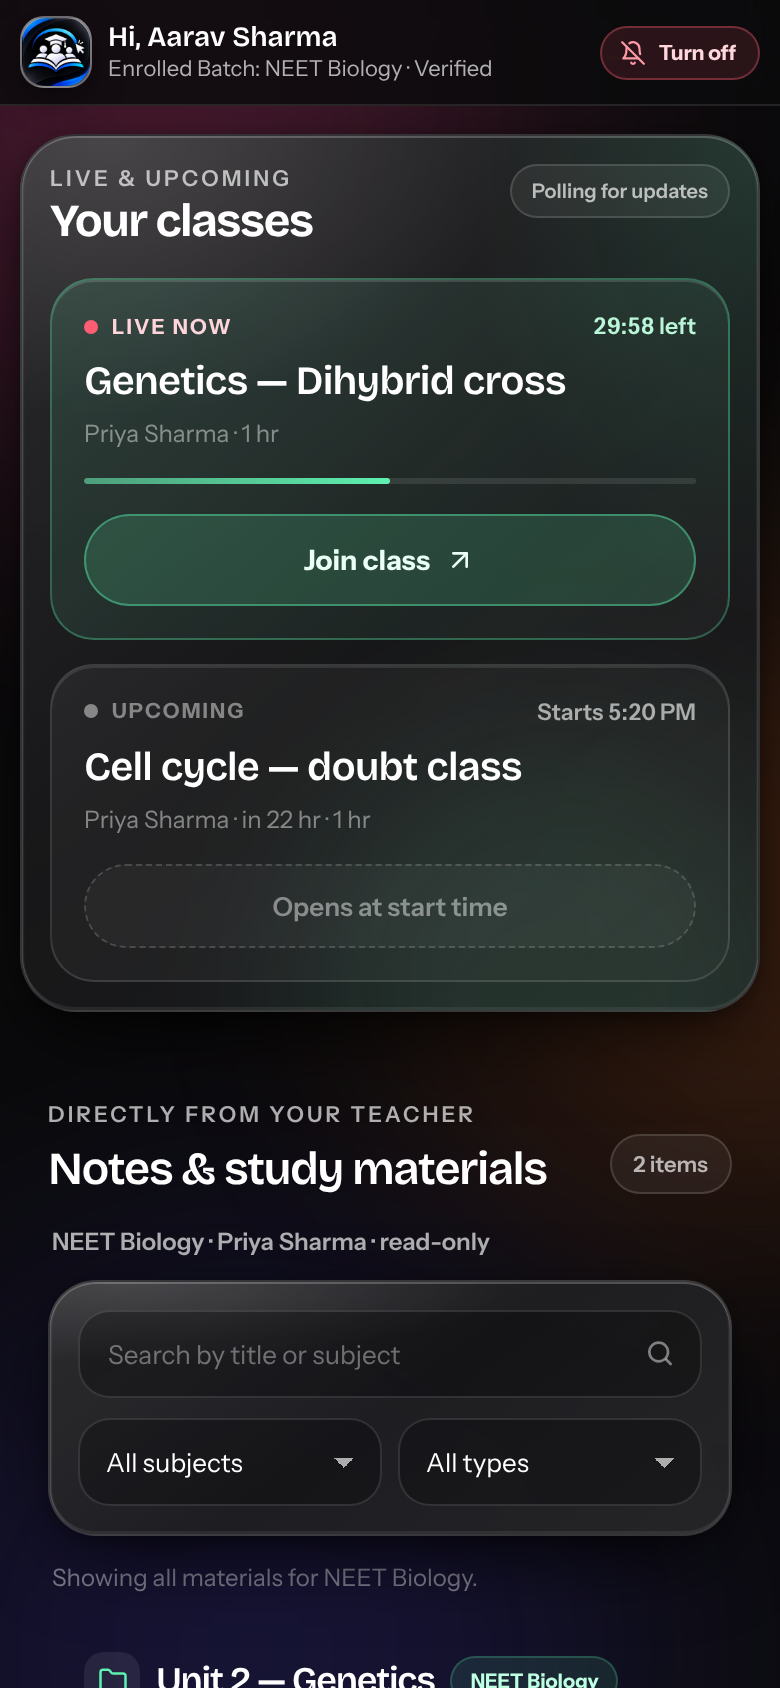
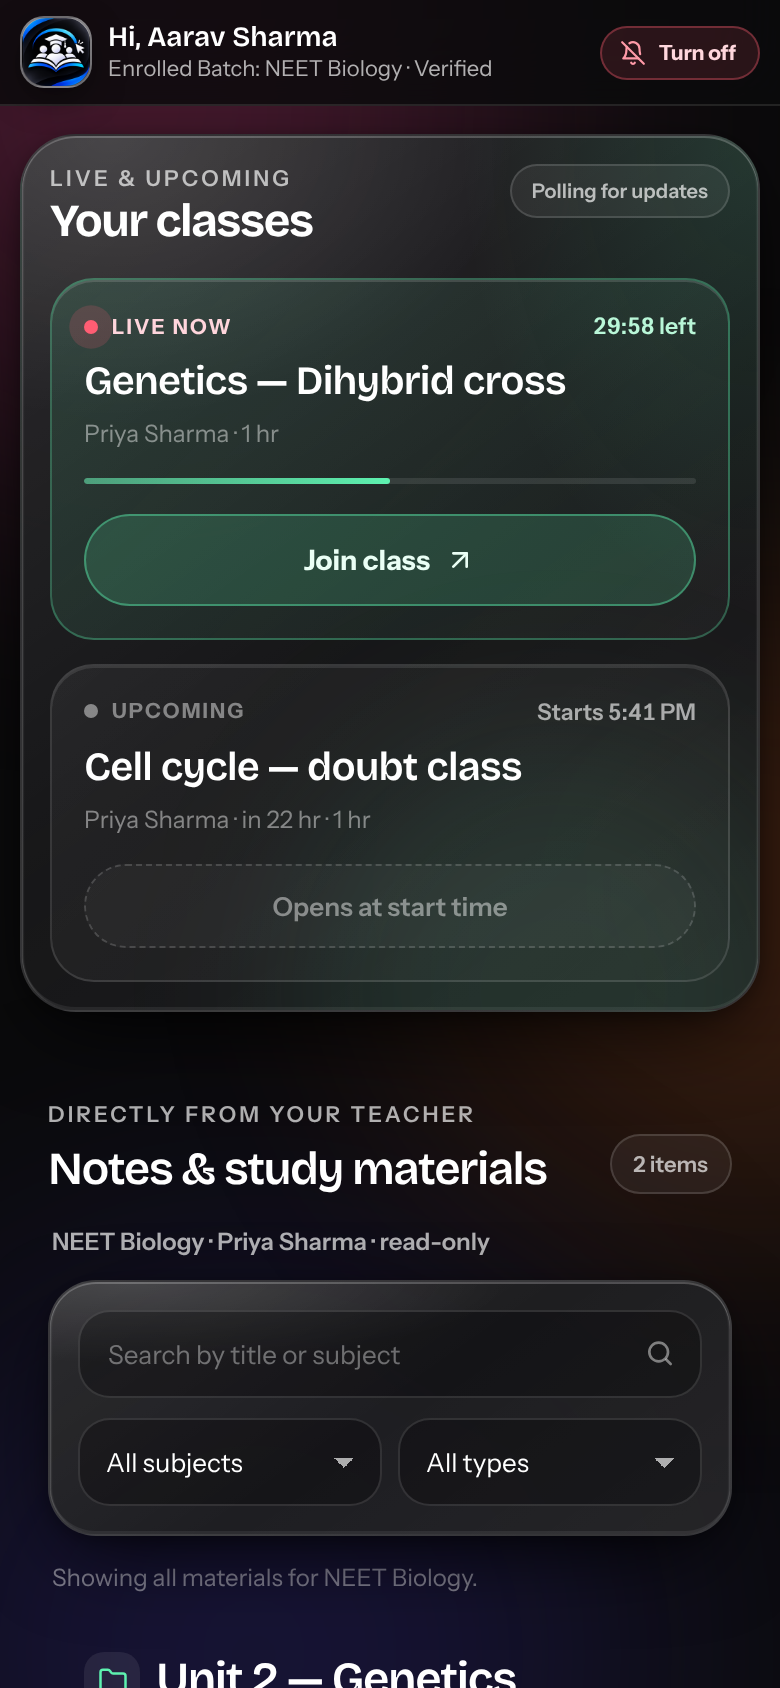
fix(student-hub): one heading size for the section, the folder and the note
"Notes & study materials" was 23px, the folder heading directly under it was 18px and every note title
was 19px, so a folder read like a subsection of a subsection. All three now share the h2 scale
(clamp(23px, 4vw, 31px), weight 600), so the title you scan in the folder row is the same title you
scan on the card.

Checked at 360px and 390px: no horizontal overflow, and the folder heading wraps without pushing the
batch pill or the item count out of the row. `styles.css?v=19`, README screenshot 06 recaptured.

New test PA-20 pins the shared rule and the missing 18px override.

Changed region(s): [[0.1846, 0.9858, 0.8, 1.0], [0.0923, 0.1848, 0.1538, 0.2156], [0.8, 0.4005, 0.8308, 0.4313]]

diff --git a/tests/pushAlerts.test.ts b/tests/pushAlerts.test.ts
@@ -357,6 +357,17 @@ describe('Student Hub push alerts (PA)', () => {
     expect(read('src/components/StudentHubManager.tsx')).toContain('<Check size={11} strokeWidth={3} aria-hidden="true" />')
   })
 
+  it('PA-20 the section heading, a folder heading and a note title are one size', () => {
+    // "Notes & study materials" was 23px while the folder heading under it was 18px and a note title
+    // 19px — the folder looked like a subsection of a subsection. All three share the h2 scale now.
+    const css = read('student-hub/styles.css')
+    expect(css).toContain('.folder-title,\n.note-title { font-size: clamp(23px, 4vw, 31px);')
+    expect(css).not.toContain('.folder-title { font-size: 18px; }')
+    expect(css).toMatch(/h2 \{ margin: 0; font-size: clamp\(23px, 4vw, 31px\);/)
+    // The folder tile is a fixed 28px badge: the heading beside it must not push the row out of shape.
+    expect(read('student-hub/index.html')).toContain('styles.css?v=19')
+  })
+
   it('PA-14 a note shows when it was shared under its title, not at the end of the pill row', () => {
     const js = read(PORTAL)
     const title = js.indexOf("card.append(top, elem('h3', 'note-title'")

diff --git a/student-hub/styles.css b/student-hub/styles.css
@@ -544,7 +544,11 @@ h3 { margin: 0; font-size: 19px; line-height: 1.25; font-weight: 600; }
 .folder-head { display: flex; align-items: center; flex-wrap: wrap; gap: 9px; padding: 0 4px; }
 .folder-icon { display: grid; width: 28px; height: 28px; flex: none; place-items: center; border-radius: 10px; background: rgba(255,255,255,.08); color: var(--present); }
 .folder-icon svg { display: block; }
-.folder-title { font-size: 18px; }
+/* One heading size for everything the student reads as a title: the section ("Notes & study
+   materials"), a folder ("Unfiled") and a note all share the h2 scale instead of shrinking away
+   underneath it. A folder heading at 18px next to a 23px section heading read like a mistake. */
+.folder-title,
+.note-title { font-size: clamp(23px, 4vw, 31px); line-height: 1.15; font-weight: 600; letter-spacing: -.03em; }
 .folder-batch { padding: 5px 9px; border-radius: 999px; background: rgba(94,242,176,.10); border: 1px solid rgba(94,242,176,.22); color: #bfffe2; font-size: 10px; font-weight: 700; }
 .folder-count { margin-left: auto; color: var(--faint); font-size: 11px; }
 .folder-notes { display: grid; gap: 12px; }

diff --git a/student-hub/index.html b/student-hub/index.html
@@ -22,7 +22,7 @@
     <meta name="apple-mobile-web-app-status-bar-style" content="black-translucent" />
     <meta name="apple-mobile-web-app-title" content="Student Hub" />
     <link rel="manifest" href="./manifest.webmanifest?v=2" />
-    <link rel="stylesheet" href="./styles.css?v=18" />
+    <link rel="stylesheet" href="./styles.css?v=19" />
   </head>
   <body>
     <div class="ambient" aria-hidden="true"><span class="orb orb-a"></span><span class="orb orb-b"></span><span class="orb orb-c"></span></div>

diff --git a/tests/studentHub.test.tsx b/tests/studentHub.test.tsx
@@ -1198,7 +1198,7 @@ describe('Student Portal and RLS (SP)', () => {
     expect(css).not.toContain('.form-field')
 
     // The stylesheet is cache-busted so the phone actually fetches the change.
-    expect(html).toMatch(/styles\.css\?v=18/)
+    expect(html).toMatch(/styles\.css\?v=19/)
     expect(html).toMatch(/portal\.js\?v=15/)
   })
 
